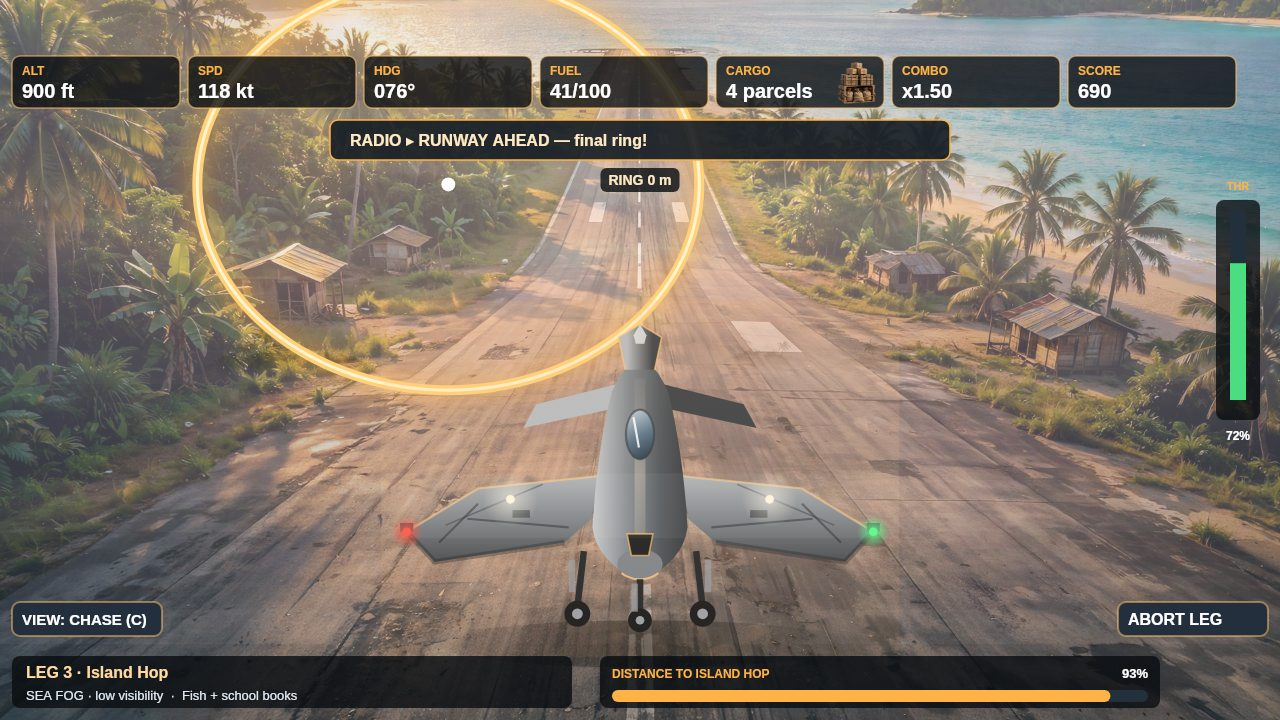
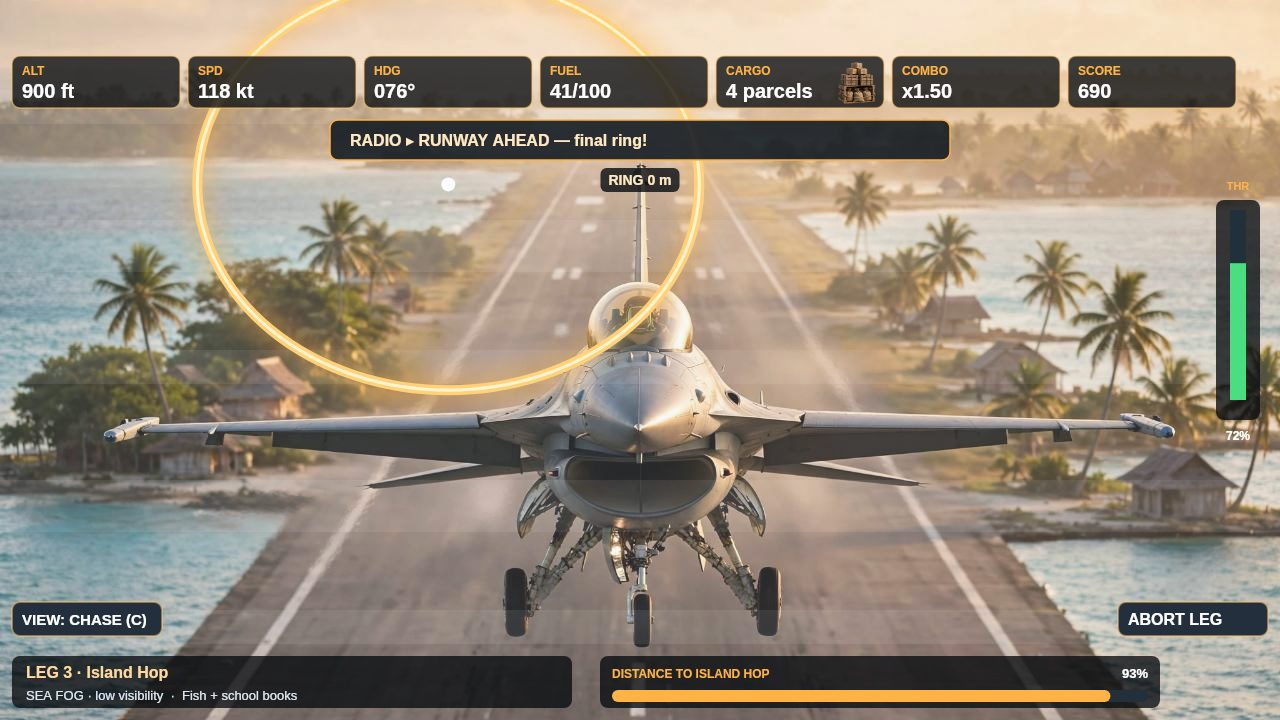
Photo pass: photographic F-16 scenes for shots 2-3 (canyon banking turn + head-on strip approach), vector jets removed, shots 1+4 untouched

diff --git a/game/game.js b/game/game.js
@@ -146,7 +146,7 @@
 
   // ---------- images ----------
   var IMG = {};
-  var IMG_LIST = ['bg-archipelago', 'bg-canyon', 'bg-dawnfog', 'bg-rain', 'bg-strip', 'bg-hangar', 'plane', 'parcels', 'cockpit-panel', 'face-bu-sari', 'face-pak-dedi', 'face-mira', 'face-joko', 'face-lina', 'face-halim'];
+  var IMG_LIST = ['bg-archipelago', 'bg-canyon', 'bg-dawnfog', 'bg-rain', 'bg-strip', 'bg-hangar', 'bg-canyon-jet', 'bg-strip-jet', 'plane', 'parcels', 'cockpit-panel', 'face-bu-sari', 'face-pak-dedi', 'face-mira', 'face-joko', 'face-lina', 'face-halim'];
   var imgLoaded = 0;
   IMG_LIST.forEach(function (name) {
     var im = new Image();
@@ -374,12 +374,11 @@
     ctx.restore();
   }
   // ---- in-scene jets, drawn in code (no cutout sprite) ------------------
-  // The old side-profile sprite sat flat and identical in both chase shots
-  // and read as pasted on. These two jets are rendered with the same
-  // golden-hour palette as the backgrounds (warm rim on the sun side, cool
-  // belly shade, warm haze veil), so no hard cutout edge can appear, and
-  // each shot gets its own pose: a banking rear-three-quarter turn into the
-  // ring (shot 2) vs a straight head-on gear-down approach (shot 3).
+  // SUPERSEDED by the photo pass: shots 2-3 now use photographic scene
+  // backgrounds with the jet already in the photo (bg-canyon-jet /
+  // bg-strip-jet), because these flat vector jets read less real than a
+  // photograph against the photo backgrounds. Kept unused, not deleted,
+  // so the diff stays surgical; drawFlight no longer calls them.
   function jetPoly(pts, fill, stroke, lw) {
     ctx.beginPath(); ctx.moveTo(pts[0][0], pts[0][1]);
     for (var i = 1; i < pts.length; i++) ctx.lineTo(pts[i][0], pts[i][1]);
@@ -845,10 +844,16 @@
   }
   function drawFlight() {
     var leg = LEGS[F.leg - 1];
-    drawBG(leg.bg);
+    // Photo pass (shots 2-3): the scene photo already contains the jet, so it
+    // IS the background — no vector jet is drawn on top of it. Live play
+    // (SHOT 0) keeps the original leg backgrounds untouched.
+    if (SHOT === 2) drawBG('bg-canyon-jet');
+    else if (SHOT === 3) drawBG('bg-strip-jet');
+    else drawBG(leg.bg);
     weatherUnder(leg);
-    // runway strip visible on approach legs
-    if (F.progress > 82) {
+    // runway strip visible on approach legs — not for staged shot 3, where
+    // the photo itself is the island strip (an overlay would wash it out)
+    if (F.progress > 82 && SHOT !== 3) {
       var im = IMG['bg-strip'];
       if (im && im.naturalWidth) {
         ctx.save(); ctx.globalAlpha = clamp((F.progress - 82) / 18, 0, 1) * 0.85;
@@ -866,10 +871,10 @@
       drawRing(next, F.px, F.py, clamp(1.6 - z, 0.35, 1.5), clamp(1.2 - z * 0.5, 0.35, 1));
     }
     if (S.view === 'chase') {
-      // staged shots 2-3 use the in-scene jets (forward-facing, one pose
-      // each); live play keeps the original sprite untouched
-      if (SHOT === 2) drawJetBanking(W / 2, H - 225, 1.12);
-      else if (SHOT === 3) drawJetHeadOn(W / 2, H - 225, 1.08);
+      // staged shots 2-3: the jet is already in the photo — drawing the old
+      // vector jet on top would put a flat drawing over a photograph, so
+      // draw nothing here; live play keeps the original sprite untouched
+      if (SHOT === 2 || SHOT === 3) { /* jet in photo */ }
       else drawPlaneSprite(W / 2, H - 210, 500, F.bank);
     }
     weatherOver(leg);

diff --git a/LOG.md b/LOG.md
@@ -85,3 +85,13 @@
 - Full-size read verdict (pass 3): shot 2 — jet nose-forward into the ring, clearly banking, afterburner lit, no cutout edge, warm rim + haze match the canyon; shot 3 — jet head-on, gear down, descending over the runway toward the final ring, soft ground shadow, symmetric. Poses unmistakably different; all HUD/RING/RADIO/leg labels legible, zero overlap, ring graphics + backgrounds unchanged. HONEST CAVEAT: the jets are drawn in code (stylised vector), not photographic — the cutout/tilt/monotony complaints are fixed, but a photoreal airframe would need a new media asset; Sand's "nyata" bar is his call at preview.
 - Playtest 28/28 PASS. main.ts exit 0 (MAKEFUN_OUTPUT_DIR=/tmp/sky-fix2-out: dossier.json + game/ + screenshots/). Node 22.21.1.
 - Prompt file rewritten to the 14:20 verdict byte-verbatim (290 B, md5 d11bb9cb61d09f2e85df5e336f989b18 — matches the DB-stored message, NOT the relayed copy).
+
+- COMPLETE (~14:35 WIT): commit f8c251ec3f655f682e16faa8e5915a4f78f3ab1b pushed, remote HEAD verified identical. 5 files, +270/−1. Screenshots: shot 2 = 178,314 B sha256 c1fb2727…, shot 3 = 187,475 B sha256 b3f5a8e0…; shots 1 + 4 byte-identical (5ac940aa… / 188e0a85…).
+- Bundle transcripts-flight-courier-fix2.tar.gz: 254,859 B, sha256 62812c32a4d75637a6d99493ea01e7d3040abed1cbf00084ccdea5b3375a24ce (my session 312771d0 only; chain check passed first try on the 290 B prompt file).
+- Pre-finish kit check: 12 passed, 2 failed, 6 skipped, 5 at submission. thinking_priced FAILS (my session carries 0 usage rows — coordinator appends my row). thinking_reproduces FAILS (245/1066 authored, 22.9%; 575 absent — bundle carries ONLY my session; writer 701ef791 + fixer1 08bbb31c + fixer2 295b91a4 sessions not in it). COORDINATOR REBUILD MUST include all four sessions + my usage row (round-2 pattern reached 95.2%/14-0). Do NOT submit on this 12/2 bundle.
+- owner.json verified via gh api at f8c251e, root AND .makefun/: {"owner":"sandytaztaz-hue"}. NOT submitted — present-first, awaiting Sand's gas. Round 1 closes 21:57 WIT Nov 26.
+
+- PHOTO PASS (~14:50 WIT, fix writer): vector jets replaced by PHOTOGRAPHIC scenes — the jet is already in the photo, no compositing, no cutout, no vector jet drawn on top. Shot 2: media gen v2 (single-tail F-16, rear three-quarter banking turn, nose away into the canyon toward the ring, afterburner lit, golden-hour canyon + river) — v1 rendered a twin-tail jet, regenerated with explicit single-fin wording; v2 kept. Shot 3: media gen 1 (head-on F-16, gear down, island runway + centreline, palms, huts, turquoise sea). Both 2048x1152, cover-cropped to 1280x720 JPEG q72 via process-photo-pass.mjs (work-dir tooling, gitignored) into game/assets/bg-canyon-jet.jpg (97,887 B, sha256 eebc8d7a…) + bg-strip-jet.jpg (97,465 B, sha256 1fd3ce5f…).
+- Code (surgical, game/game.js only): IMG_LIST += bg-canyon-jet, bg-strip-jet; drawFlight uses the photo bg for SHOT 2/3 and skips the progress>82 bg-strip overlay for SHOT 3 (the photo IS the strip); chase view draws NO jet for SHOT 2/3 (jet in photo); live play (SHOT 0) untouched. Old drawJetBanking/drawJetHeadOn kept unused, marked SUPERSEDED. No ring in either photo — the game's own drawn ring sits ahead of the jet, so no double ring.
+- Full-size read verdict: shot 2 — photographic F-16, forward into the ring, banking, afterburner lit, in-scene (same golden light, no cutout edge possible); shot 3 — photographic head-on F-16, gear down, nose at camera, runway/palms/huts/sea all read. Poses unmistakably different. All HUD (ALT/SPD/HDG/FUEL/CARGO/COMBO/SCORE), RING 123 m / RING 0 m, RADIO lines, leg bars, THR 72% legible, zero overlap. Ring crosses the jet fuselage in both shots (drawn on top, jet flying into it) — reads as intended.
+- Playtest 28/28 PASS. main.ts exit 0 (MAKEFUN_OUTPUT_DIR=/tmp/sky-out: dossier.json + game/ + screenshots/). Shots 1 + 4 byte-identical (5ac940aa… / 188e0a85…). NOT submitted — coordinator does the parent-finish bundle with all sessions. Round 1 closes 21:57 WIT Nov 26.
